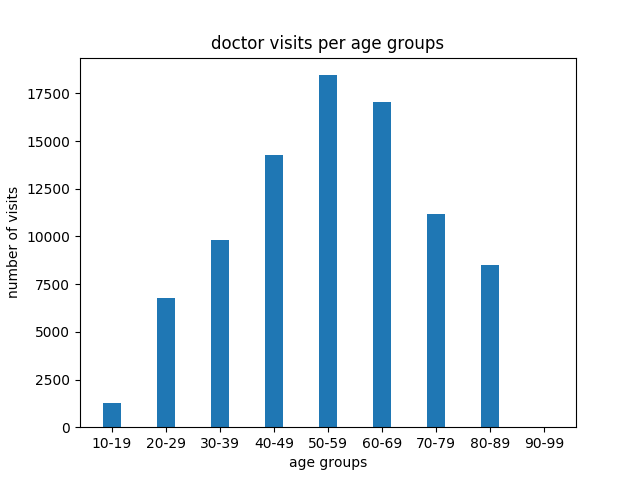
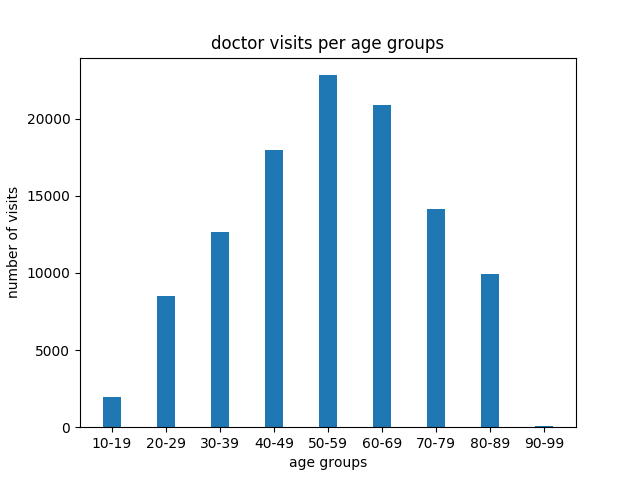
interpolation bug fixed

diff --git a/task3/interpolation.py b/task3/interpolation.py
@@ -1,17 +1,33 @@
 import numpy as np
 import matplotlib.pyplot as plt
 from scipy import interpolate
-
+from sklearn.metrics import mean_squared_error
 
 class Interpolator:
 
     def interpolate(ages, numberOfVisits):
-        averageAges = [x+4 for x in ages]                   #the average person in group 10-19 is 14
-        averageVisits = [x/10 for x in numberOfVisits]      #there are 10 ages in an age group
 
-        f = interpolate.Akima1DInterpolator(averageAges, averageVisits)    #best mse
+        averageAges = []
+
+        for i in range(9):
+            if i == 0:
+                averageAges.append(ages[i]+5)
+            elif i == 8:
+                averageAges.append(ages[i])
+            else: averageAges.append(ages[i]+4)
+
+        averageVisits = []
+
+        for i in range(9):                               #there are normally 10 ages in an age group (5 in the first and only 1 in the last)
+            if i == 0:
+                averageVisits.append(numberOfVisits[i]/5)
+            elif i == 8:
+                averageVisits.append(numberOfVisits[i])
+            else: averageVisits.append(numberOfVisits[i]/10)
+
+        #f = interpolate.Akima1DInterpolator(averageAges, averageVisits)
         #f = interpolate.interp1d(averageAges, averageVisits)
-        #f = interpolate.KroghInterpolator(averageAges, averageVisits)
+        f = interpolate.KroghInterpolator(averageAges, averageVisits)       #best mse
         #f = interpolate.PchipInterpolator(averageAges, averageVisits)
         #f = interpolate.CubicSpline(averageAges, averageVisits)
 

diff --git a/task3/createCharts.py b/task3/createCharts.py
@@ -33,7 +33,7 @@ def interpolation_task():
         visits = 0
 
         for x in range(0, len(data)):
-            if (startYear < data[x][0] < endYear):
+            if (startYear <= data[x][0] <= endYear):
                 visits = visits + data[x][1]
 
         tup1 = (ageGroup, startYear, visits)
@@ -56,7 +56,6 @@ def interpolation_task():
     numberOfVisits = np.array(numberOfVisits)
 
     ind = np.arange(9)  # the x locations for the groups
-    width = 0.45       # the width of the bars
 
     plt.title('doctor visits per age groups')
     plt.xlabel('age groups')

diff --git a/README.md b/README.md
@@ -260,8 +260,11 @@ With python post-processing applied on the query result.
 
 Run "python createCharts.py" with Python 3 to create following plots:
 
-### Step 1
+First part:
 - total doctor visits of different age groups:
+The average age for e.g. the age group 0 - 9 is four years and those people will visit doctors in average 1/10 of the total number of visits of that age group. It's different for the first (only data for patients 15-19 years) and the last (only 90 year old patients) age group. Those average patients are marked with a red dot. Their data gets interpolated to show visits per age:
+
+![alt text](task3/plots/doctorVisitsPerAgeGroup.png)
 
 The data is accessed with following query and postprocessed in python:
 
@@ -286,17 +289,15 @@ The data is accessed with following query and postprocessed in python:
     ORDER BY "Transcript"."VisitYear" - "Patient"."YearOfBirth" ASC
 ```
 
-![alt text](task3/plots/doctorVisitsPerAgeGroup.png)
 
-- the average age for e.g. the age group 0 - 9 is four years and those people will visit doctors in average 1/10 of the total number of visits of that age group. Those average patients are marked with a red dot. Their data gets interpolated to show visits per age:
-
+- through that data get the interpolated doctor visits per age
 ![alt text](task3/plots/interpolatedDoctorVisits.png)
 
-- comparance of the interpolated and the real values: The data gets compared to the actual data: The achieved Mean Squared Error is about 112950 and the Root Mean Squared Error about 336:
+- comparance of the interpolated and the real values: The data gets compared to the actual data: The achieved Mean Squared Error is about 15157 and the Root Mean Squared Error about 123:
 
 ![alt text](task3/plots/interpolatedVsRealDoctorVisits.png)
 
-### Step 2
+Second part:
 
 We used 90% of the data to train and 10% to test our model for both Diastolic and Systolic Blood Pressure. The plots show the whole testing data or only 100 data points to have a more detailed look.
 The achieved R^2 for Systolic Blood Pressure was 0.0282854713335, for Diastolic Blood Pressure  0.021655668377:
